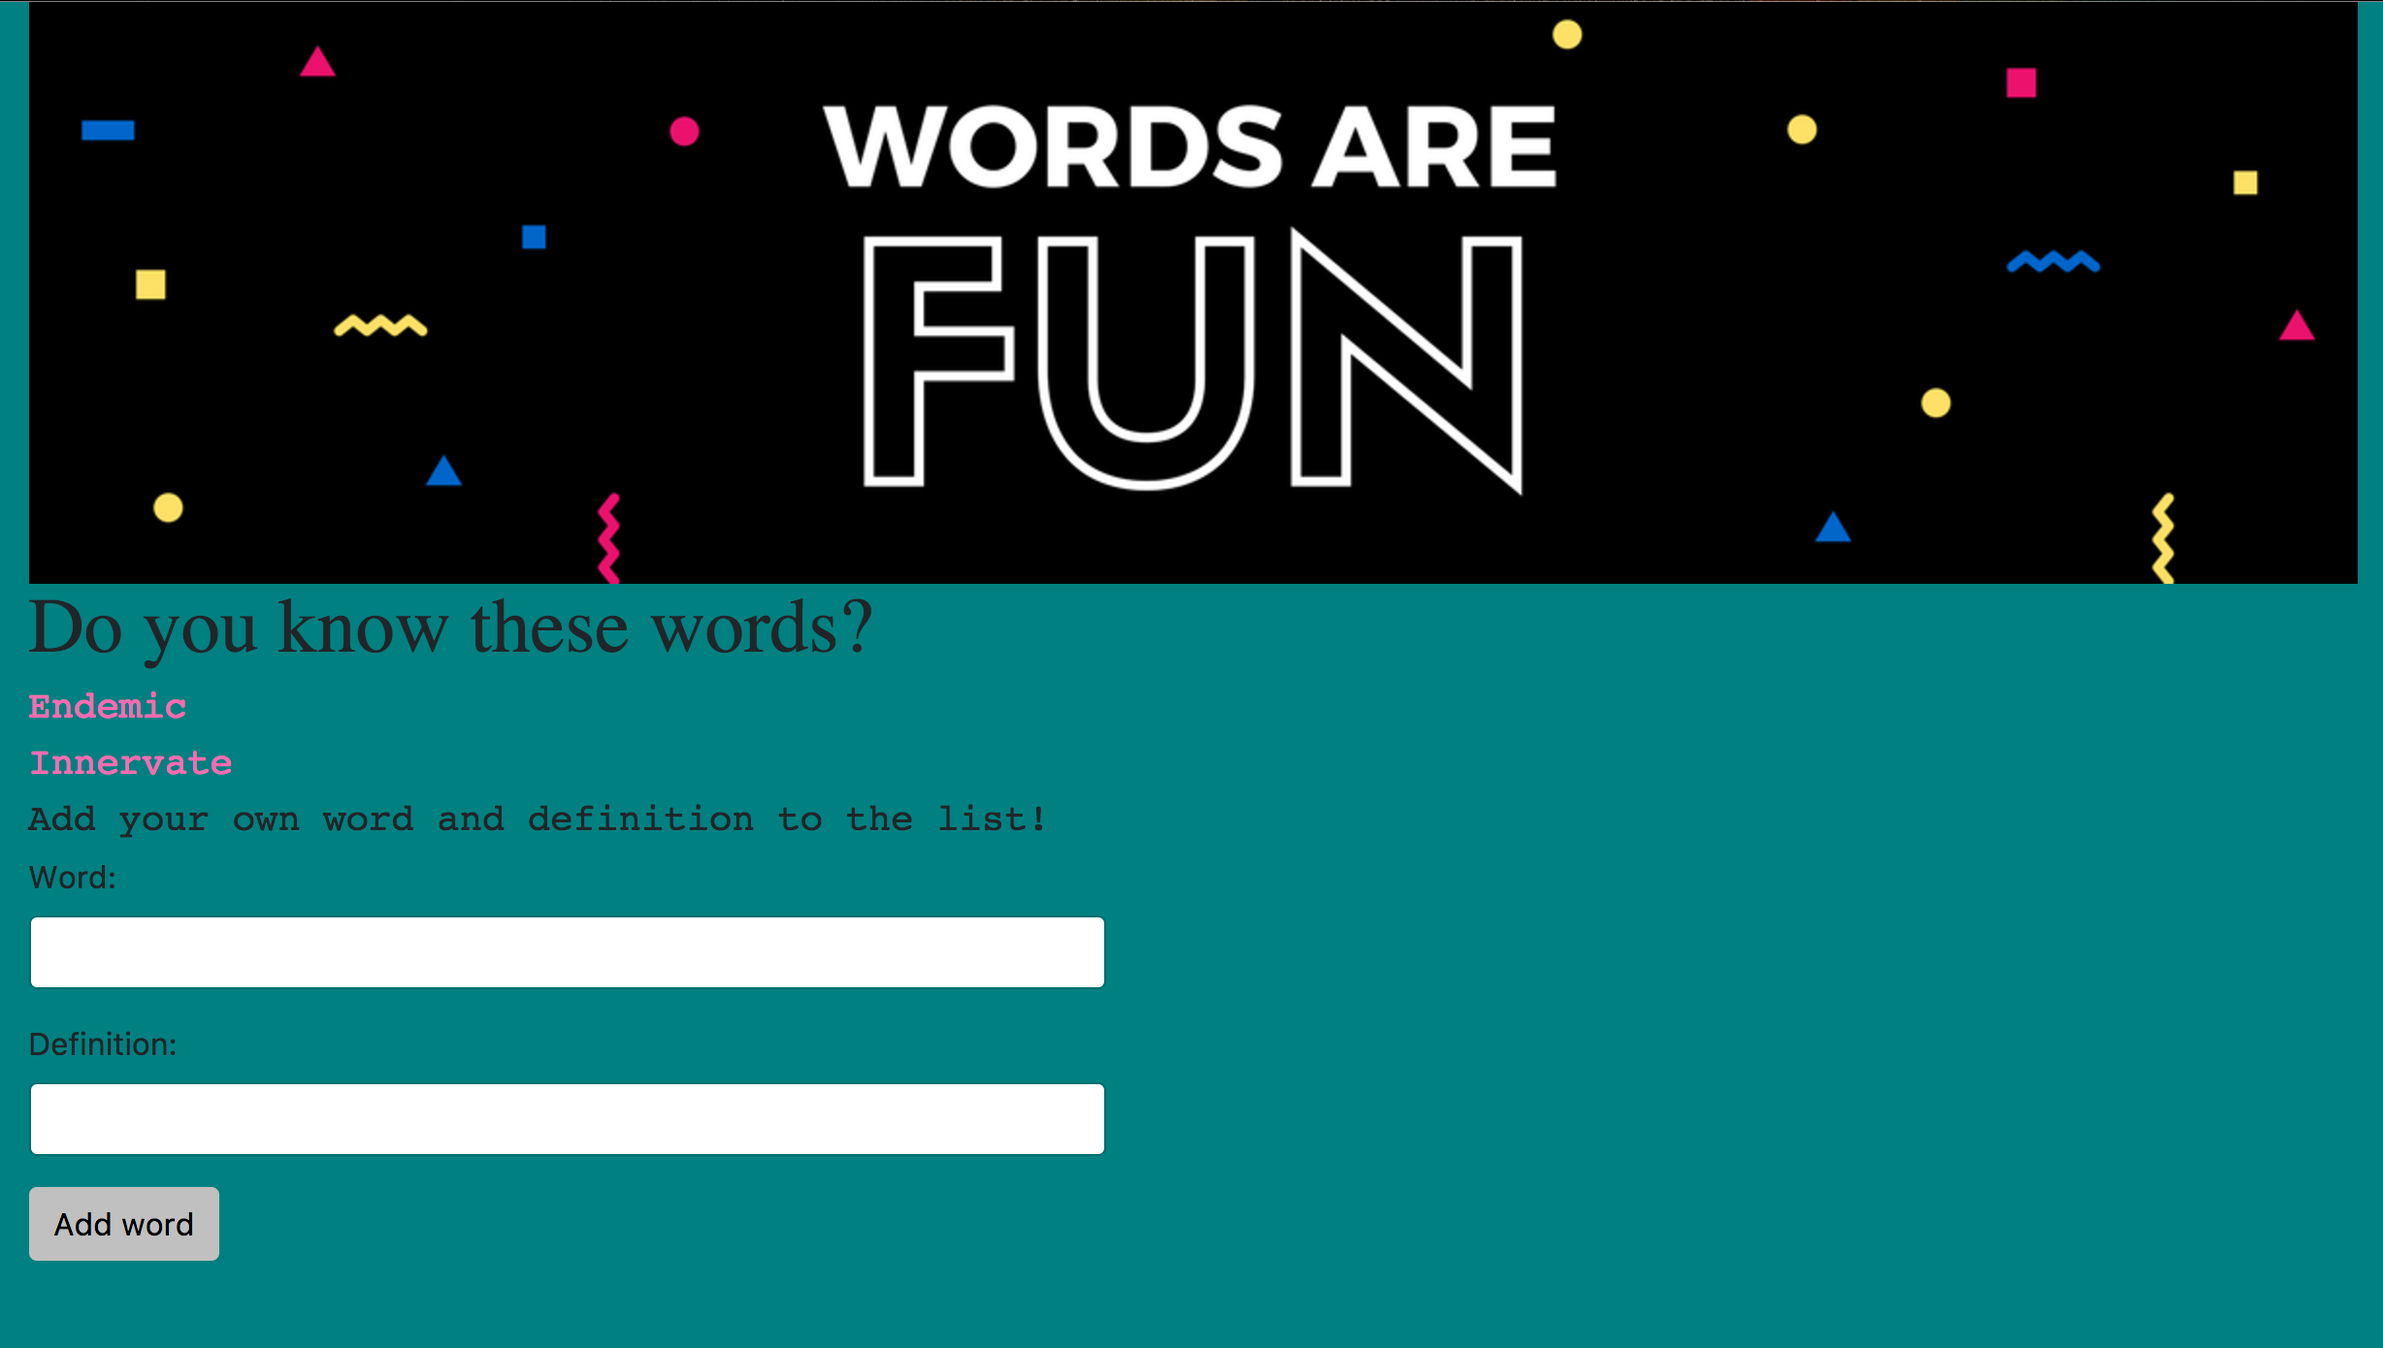
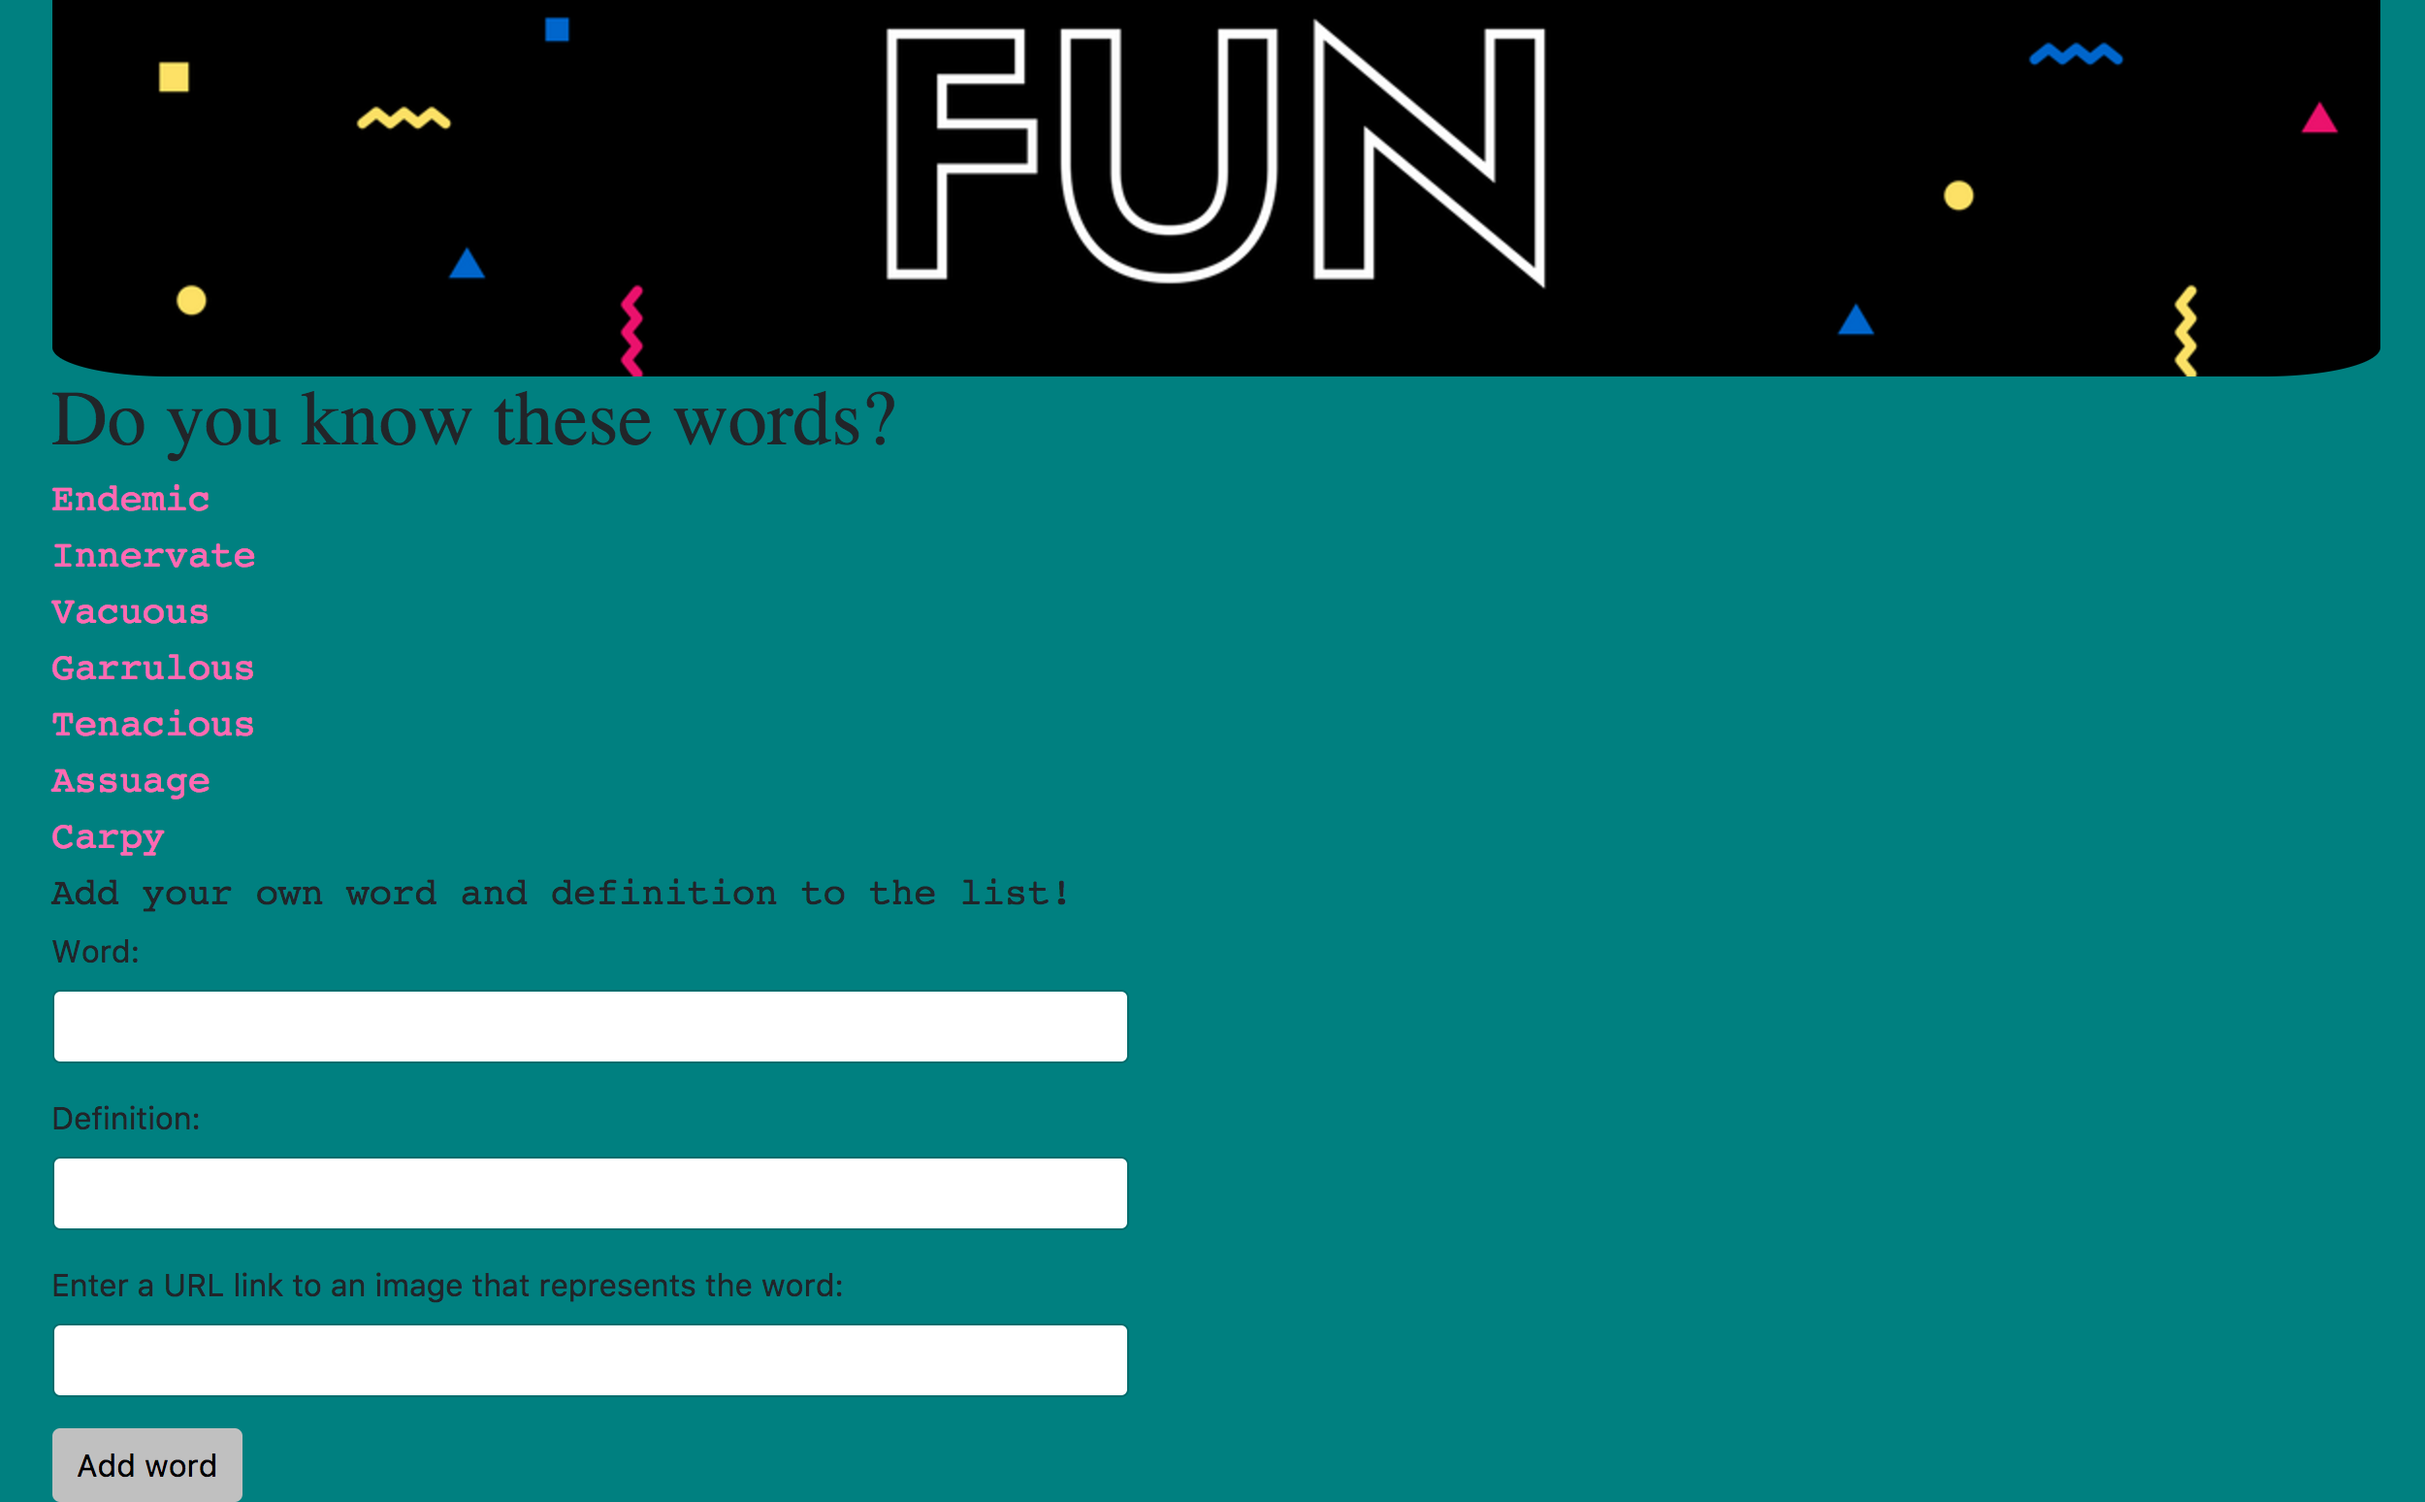
add static list of words to page

diff --git a/app.rb b/app.rb
@@ -4,6 +4,26 @@ also_reload('lib/**/*.rb')
 require('./lib/word_definer')
 require('pry')
 
+
+word1 = Word.new("Endemic","Native to a specific region or environment and not occurring naturally anywhere else.","http://www.cepf.net/SiteCollectionImages/other/ci_78938240%20(1).jpg")
+word1.save()
+word1.setId(1)
+word1 = Word.new("Innervate","To stimulate or supply nervous energy.","http://wiki.teamliquid.net/commons/images/3/35/Innervate_hs.png")
+word1.save()
+word1.setId(2)
+word1 = Word.new("Vacuous","Having or showing a lack of thought or intelligence.","https://4.bp.blogspot.com/-nLDMbTVwOJc/WLYO2WAk8wI/AAAAAAAAPyI/wyy0vKrqNPMl_BOLGsEyXUc02RUbnfVbQCLcB/s1600/Rom_Artwork.jpg")
+word1.save()
+word1.setId(3)
+word1 = Word.new("Garrulous","Excessively talkative, especially on trivial matters.","http://www.cs.utexas.edu/~deke/chris/images/garrulous.jpg")
+word1.save()
+word1.setId(4)
+word1 = Word.new("Tenacious","Not readily letting go of, giving up, or separated from an object that one holds, a position, or a principle.","http://e.snmc.io/lk/f/a/cc2776c6d7f5fd70cf7f484881afe14a/1052315.jpg")
+word1.save()
+word1.setId(5)
+word1 = Word.new("Assuage","To make milder or less severe; relieve; ease; mitigate.","http://flashcardmonkey.com/wp-content/uploads/2015/11/assuage.png")
+word1.save()
+word1.setId(6)
+
 get('/') do
   @list = Word.all()
   erb(:list)
@@ -26,10 +46,10 @@ end
 #   erb(:word)
 # end
 
-get('/update/:id') do
-  @word_to_display = Word.find(params[:id])
-  erb(:update)
-end
+# get('/update/:id') do
+#   @word_to_display = Word.find(params[:id])
+#   erb(:update)
+# end
 
 # post('/update/:id') do
 #   word = params['theWord']

diff --git a/lib/word_definer.rb b/lib/word_definer.rb
@@ -9,6 +9,10 @@ class Word
     @id = @@list.length + 1
   end
 
+  def setId(id)
+    @id = id.to_i()
+  end
+
   def self.all()
     @@list
   end
